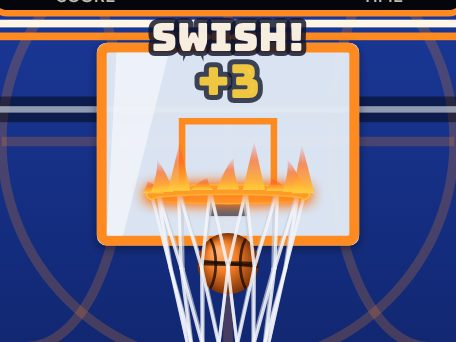
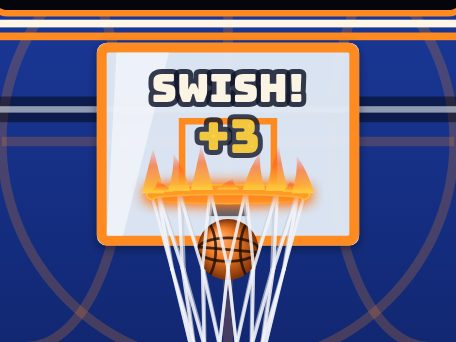
Hoops: words keep off the scoreboard, the lamps go out at the buzzer, the meter shows its light
The words over the hoop started up to 50 px above the rim and rose 36 px
a second, so "On fire!", "Off the glass!" and "+2" piled up on the LED
board, over its SCORE and TIME. Now no more than two show at once, the
newest just over the rim and an older one nudged up over it, and they
stop at the scoreboard's lower edge; a basket that sets the rim alight
says "On fire!" as its word. The HOT and 3 PTS lamps stayed lit on the
end card while the deck said 2 points a basket; they're lit only while
the round runs now. The keyboard's throw meter painted its light band
under the fill, so it vanished once the fill passed it: the band is now
a bright outline drawn over the fill, and the meter is 110 x 14 px.
Nothing here changes what a machine pays or how hard it is. Hoops'
browser test checks the words and the lamps through a whole round.
Hoops' pictures and the link preview are redrawn.

Claude-Session: https://claude.ai/code/session_01RkvUFhzoaPZyofz3pSrJ5i

diff --git a/hoops/js/draw.js b/hoops/js/draw.js
@@ -232,6 +232,7 @@ export function createDraw(canvas) {
       }
     });
   }
+  const lamps = { bonus: false, hot: false };
   function scoreboard(court, t) {
     plane(ctx, CAGE.back, 0, 202, g => {
       g.lineCap = 'round'; g.lineWidth = 3.4; g.shadowColor = `rgba(${C.led}, .9)`;
@@ -249,8 +250,11 @@ export function createDraw(canvas) {
         g.fillStyle = on ? col : 'rgba(255, 255, 255, .08)'; g.shadowColor = col; g.shadowBlur = on ? 8 : 0; g.fill(); g.shadowBlur = 0;
         g.fillStyle = on ? C.cream : 'rgba(255, 246, 230, .35)'; g.fillText(label, x, 6);
       };
-      lamp(16, court.bonus && (court.left > 0 || court.buzzer), '#ffd23f', '3 PTS');
-      lamp(-6, court.fire, '#ff7a1f', 'HOT');
+      // (lit while the round runs: after the buzzer a basket is worth what the deck says again)
+      const running = !court.buzzer && !court.over;
+      lamps.bonus = court.bonus && running; lamps.hot = court.fire && running;
+      lamp(16, lamps.bonus, '#ffd23f', '3 PTS');
+      lamp(-6, lamps.hot, '#ff7a1f', 'HOT');
     });
   }
 
@@ -396,23 +400,52 @@ export function createDraw(canvas) {
       ctx.beginPath(); ctx.arc(b.x, b.y, 4, 0, Math.PI * 2); ctx.fillStyle = 'rgba(255, 246, 230, .8)'; ctx.fill();
     }
     if (meter !== null) {
-      const a = P(V(LAUNCH.x + 30, LAUNCH.y, LAUNCH.z)), h = 70, w = 10;
-      rr(ctx, a.x, a.y - h, w, h, 4); ctx.fillStyle = 'rgba(5, 6, 12, .7)'; ctx.fill();
-      ctx.fillStyle = 'rgba(255, 210, 63, .35)'; ctx.fillRect(a.x, a.y - h * 0.565, w, h * 0.13);
-      ctx.fillStyle = C.orange; ctx.fillRect(a.x + 2, a.y - h * meter, w - 4, h * meter);
+      const a = P(V(LAUNCH.x + 30, LAUNCH.y, LAUNCH.z)), h = 110, w = 14;
+      rr(ctx, a.x, a.y - h, w, h, 5); ctx.fillStyle = 'rgba(5, 6, 12, .75)'; ctx.fill();
+      ctx.lineWidth = 1; ctx.strokeStyle = 'rgba(255, 246, 230, .3)'; ctx.stroke();
+      ctx.fillStyle = C.orange; ctx.fillRect(a.x + 3, a.y - h * meter, w - 6, h * meter);
+      // the light, where to let go: drawn over the fill, so it shows wherever the fill has got to
+      ctx.save();
+      ctx.lineWidth = 2; ctx.strokeStyle = '#ffe27a'; ctx.shadowColor = 'rgba(255, 210, 63, .9)'; ctx.shadowBlur = 6;
+      ctx.strokeRect(a.x - 1.5, a.y - h * 0.565, w + 3, h * 0.13);
+      ctx.restore();
     }
     // what a basket was worth, rising off the hoop
-    const at = P(V(hoop.x, HOOP.y + 30, HOOP.z));
-    ctx.textAlign = 'center'; ctx.textBaseline = 'middle';
-    for (const p of pops) {
-      ctx.globalAlpha = Math.max(0, Math.min(1, 1 - p.t));
-      const size = (p.big ? 22 : p.word ? 15 : 18) * Math.min(1.3, Math.max(0.8, at.k / 1.2));
-      ctx.font = `400 ${size}px Bungee, Impact, sans-serif`;
-      const y = at.y - (p.y || 0) - Math.max(0, p.t) * 36;
-      ctx.lineWidth = 5; ctx.strokeStyle = 'rgba(16, 20, 42, .85)'; ctx.strokeText(p.text, at.x, y);
-      ctx.fillStyle = p.gold ? '#ffd23f' : C.cream; ctx.fillText(p.text, at.x, y);
+    words(pops, hoop, now);
+  }
+
+  // The words rising off the hoop: the newest lowest, just over the rim, and an older one nudged up over it as a new
+  // one comes. They rise as they fade, but stop at the foot of the scoreboard, so they never land on its numbers.
+  let lastNow = 0;
+  const laid = [];
+  function words(pops, hoop, now) {
+    const dt = Math.min(0.1, Math.max(0, (now - lastNow) / 1000)); lastNow = now;
+    laid.length = 0;
+    const shown = pops.filter(p => p.t >= 0);
+    if (!shown.length) return;
+    const at = P(V(hoop.x, HOOP.y + 8, HOOP.z)), k = Math.min(1.3, Math.max(0.8, at.k / 1.2));
+    const ceil = P(V(0, 178, CAGE.back)).y + 3, gap = 2 * k;   // the scoreboard's lower edge, and a little room
+    const h = p => (p.big ? 22 : p.word ? 15 : 18) * k;
+    // where each goes: rising from the rim, the older over the newer, and none above the scoreboard's foot
+    const y = shown.map(p => at.y - h(p) / 2 - Math.min(1, p.t) * 36);
+    for (let i = shown.length - 2; i >= 0; i--) y[i] = Math.min(y[i], y[i + 1] - (h(shown[i]) + h(shown[i + 1])) / 2 - gap);
+    for (let i = 0; i < shown.length; i++) {
+      y[i] = Math.max(y[i], ceil + h(shown[i]) / 2);
+      if (i) y[i] = Math.max(y[i], y[i - 1] + (h(shown[i - 1]) + h(shown[i])) / 2 + gap);
     }
-    ctx.globalAlpha = 1;
+    ctx.save();
+    ctx.beginPath(); ctx.rect(0, ceil - 3, W, H); ctx.clip();
+    ctx.textAlign = 'center'; ctx.textBaseline = 'middle';
+    shown.forEach((p, i) => {
+      // eased toward its place, so one nudged up by a newer one moves up rather than jumping
+      p.at = p.at == null ? y[i] : p.at + (y[i] - p.at) * Math.min(1, dt * 16);
+      ctx.globalAlpha = Math.max(0, Math.min(1, 1 - p.t));
+      ctx.font = `400 ${h(p)}px Bungee, Impact, sans-serif`;
+      ctx.lineWidth = 5; ctx.lineJoin = 'round'; ctx.strokeStyle = 'rgba(16, 20, 42, .85)'; ctx.strokeText(p.text, at.x, p.at);
+      ctx.fillStyle = p.gold ? '#ffd23f' : C.cream; ctx.fillText(p.text, at.x, p.at);
+      laid.push({ text: p.text, top: p.at - h(p) / 2, bottom: p.at + h(p) / 2 });
+    });
+    ctx.restore();
   }
 
   // Where a flick on the screen is pointing at the hoop: from the ball in the pocket along (dx, dy), as far up the
@@ -424,5 +457,6 @@ export function createDraw(canvas) {
     return onDepth(a.x + dx * s, rim.y, HOOP.z).x;
   }
 
-  return { resize, repaint, frame, cabinet, aimAt, at: P };
+  // (for the tests: the lamps as last lit, and where the words were last drawn under the scoreboard's foot)
+  return { resize, repaint, frame, cabinet, aimAt, at: P, lamps, get words() { return { laid: [...laid], foot: P(V(0, 178, CAGE.back)).y }; } };
 }

diff --git a/hoops/js/app.js b/hoops/js/app.js
@@ -69,6 +69,8 @@ let paused = false, timeScale = 1, hold = 0, demoIn = 1;
 let endIn = 0;                 // seconds from the last ball landing to the end card, on the round's clock (it waits while paused)
 let tickets = wallet.read().tickets; // the pocket, read again only when it changes (see the scoreboard)
 const pops = [];
+// Words rising off the hoop: no more than two at once, the newest lowest (js/draw.js stacks them under the scoreboard).
+function pop(p) { pops.push(p); while (pops.length > 2) pops.shift(); }
 const carded = () => !$('title').hidden || !$('over').hidden || !$('menu').hidden || counterOpen();
 
 function newRound() {
@@ -96,10 +98,10 @@ function throwIt(speed, aim) {
 // it had the phone redoing it for nothing.
 function happened() {
   const events = court.take();
-  for (const e of events) {
-    if (mode !== 'play') continue; // the machine playing by itself keeps quiet
-    if (e === 'slide') { sound.slide(); say('The hoop is on the move.'); pops.push({ text: 'On the move!', t: -0.2, y: 34 }); }
-    else if (e === 'bonus') { sound.bonus(); say('Last ten seconds: 3 points a basket.'); pops.push({ text: '3 points!', t: -0.2, y: 34, gold: true, big: true }); }
+  events.forEach((e, i) => {
+    if (mode !== 'play') return; // the machine playing by itself keeps quiet
+    if (e === 'slide') { sound.slide(); say('The hoop is on the move.'); pop({ text: 'On the move!', t: -0.2 }); }
+    else if (e === 'bonus') { sound.bonus(); say('Last ten seconds: 3 points a basket.'); pop({ text: '3 points!', t: -0.2, gold: true, big: true }); }
     else if (e === 'buzzer') { sound.buzzer(); say('Time.'); }
     else if (e === 'over') endIn = 0.7;
     else if (e.shot !== undefined) sound.shot();
@@ -109,13 +111,16 @@ function happened() {
     else if (e.knock !== undefined) sound.knock(e.knock);
     else if (e.basket !== undefined) {
       sound.basket(e.swish, e.gold);
-      const word = e.buzzer ? 'At the buzzer!' : e.swish ? 'Swish!' : e.bank ? 'Off the glass!' : null;
-      pops.push({ text: `+${e.points}`, t: 0, gold: e.gold || e.fire, big: e.points > 3 });
-      if (word) pops.push({ text: word, t: -0.05, y: 24, gold: e.buzzer, word: true });
+      // what it was worth, and a word for what it was: the rim catching alight (the next thing the court says) beats
+      // a swish or a bank
+      const lit = events[i + 1]?.fire === true;
+      const word = e.buzzer ? 'At the buzzer!' : lit ? 'On fire!' : e.swish ? 'Swish!' : e.bank ? 'Off the glass!' : null;
+      if (word) pop({ text: word, t: -0.05, gold: e.buzzer || lit, big: lit && !e.buzzer, word: !lit || e.buzzer });
+      pop({ text: `+${e.points}`, t: 0, gold: e.gold || e.fire, big: e.points > 3 });
       bump($('score'));
-    } else if (e.fire === true) { sound.fire(true); say('Three in a row: the rim is alight.'); pops.push({ text: 'On fire!', t: -0.15, y: 50, gold: true, big: true }); }
+    } else if (e.fire === true) { sound.fire(true); say('Three in a row: the rim is alight.'); }
     else if (e.fire === false) sound.fire(false);
-  }
+  });
   if (events.length) hud();
   // a beep for each of the last five seconds
   const s = Math.ceil(court.left);
@@ -352,6 +357,7 @@ window.hoops = {
   get court() { return court; },
   get mode() { return mode; },
   get saved() { return saved; },
+  get pops() { return pops; },
   start,
   shoot: throwIt,
   flick,
